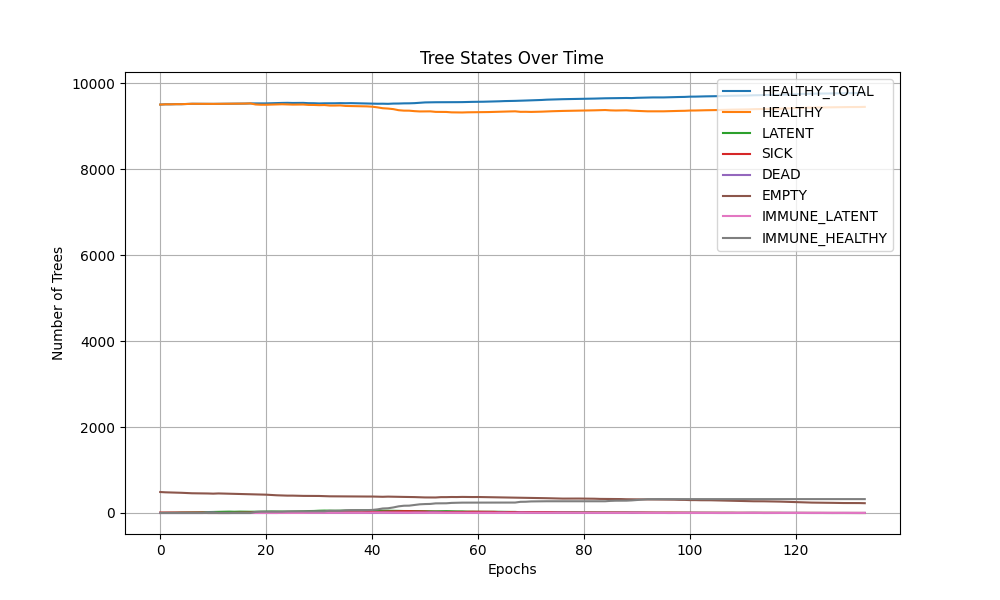
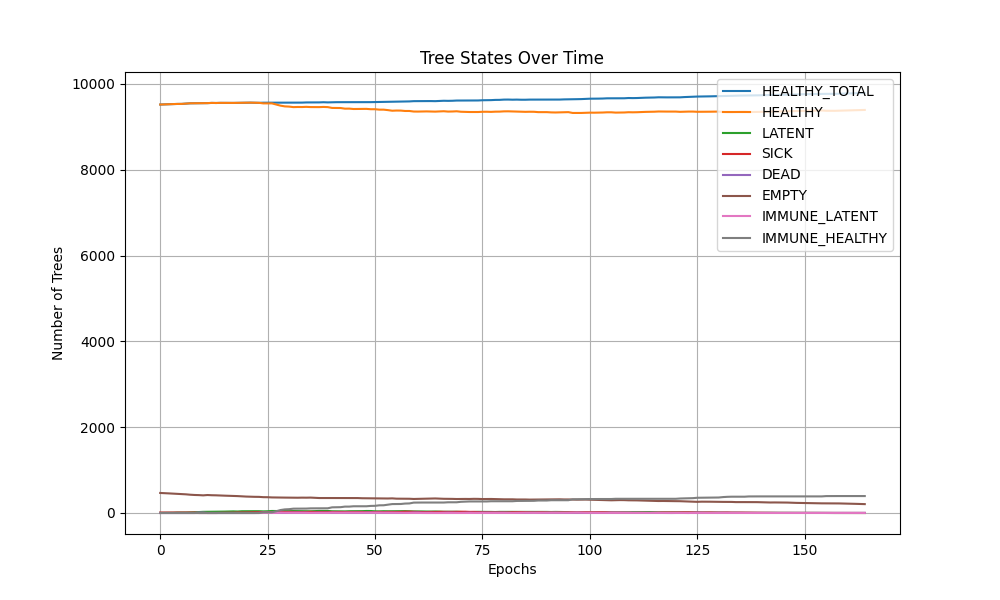
vaccination results

diff --git a/test/vaxinate_test.py b/test/vaxinate_test.py
@@ -39,17 +39,17 @@ def test_forest_model():
     forest_cover_rate = 0.95
     # Spreading rates for sick trees: low: 0.06 medium: 0.14 high: 0.35
     # Spreading rates for latent trees: low: 0.04 medium: 0.08 high: 0.2
-    infect_prob_sick = 0.35
-    infect_prob_latent = 0.2
+    infect_prob_sick = 0.06
+    infect_prob_latent = 0.04
     grow_tree_prob = 0.01
     unsucceceful_vaccination = 0.15
     latent_days_immune_threshold = 15
 
     ## Parameters for loss function
-    a = 1.5
+    a = 2
     b = 2
     c = 0
-    d = 1
+    d = 3
     e = 0.7
     vaxinate_cost = 0
     dead_trees = 0
